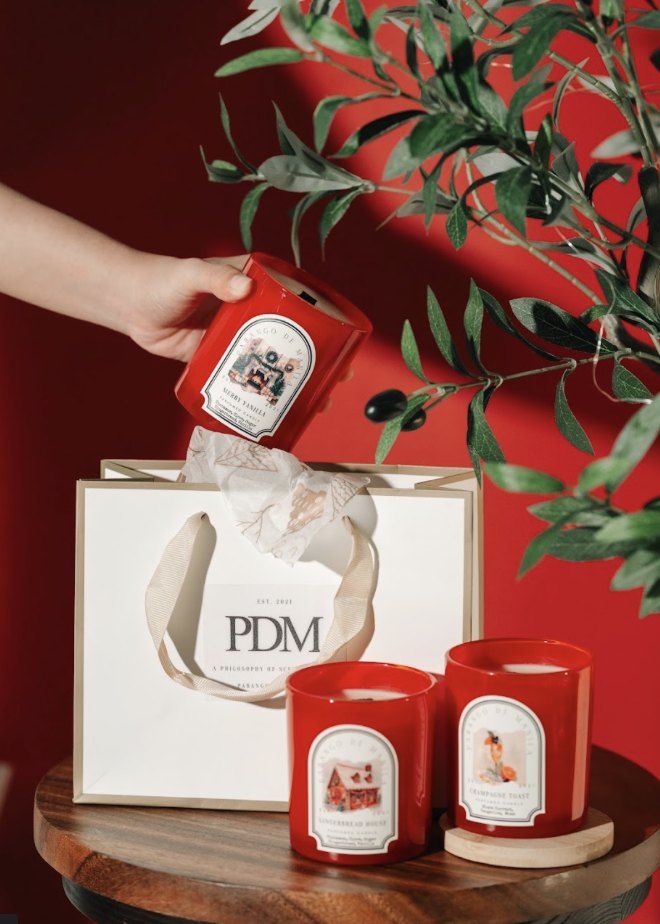
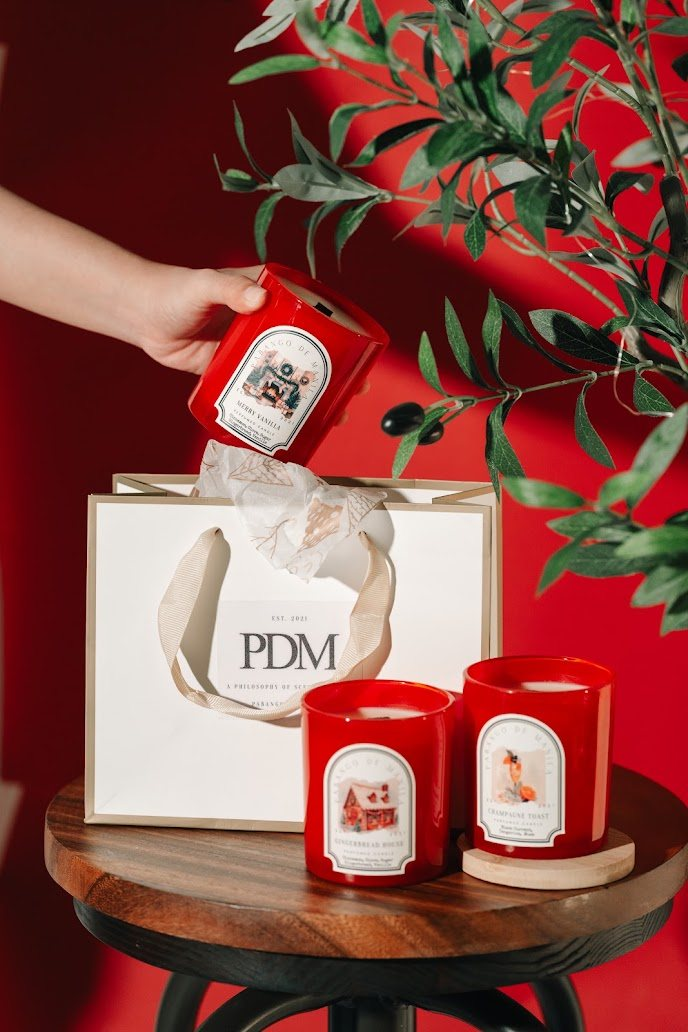
Use the full Christmas editions photo in the Christmas Collection feature
Claude-Session: https://claude.ai/code/session_01SjE6tWXxf63jBa8S3FqPdH

diff --git a/src/app/(store)/page.tsx b/src/app/(store)/page.tsx
@@ -106,7 +106,7 @@ export default async function HomePage() {
           {Array.from({ length: 8 }, (_, i) => <p key={i} className="whitespace-nowrap" style={{ marginLeft: i % 2 ? "-1.5em" : 0 }}>{"Christmas Collection ".repeat(5)}</p>)}
         </div>
         <div className="container-luxe relative grid items-center gap-12 lg:grid-cols-2 lg:gap-20">
-          <Link href="/shop?category=scented-candles" className="relative mx-auto block aspect-[5/7] w-full max-w-md overflow-hidden rounded-3xl shadow-xl">
+          <Link href="/shop?category=scented-candles" className="relative mx-auto block aspect-[2/3] w-full max-w-md overflow-hidden rounded-3xl shadow-xl">
             <Image src="/brand/v2/christmas-collection.jpg" alt="PDM Christmas Collection candles in red jars with a Pabango de Manila gift bag" fill sizes="(min-width:1024px) 40vw, 100vw" className="object-cover" />
           </Link>
           <div>
